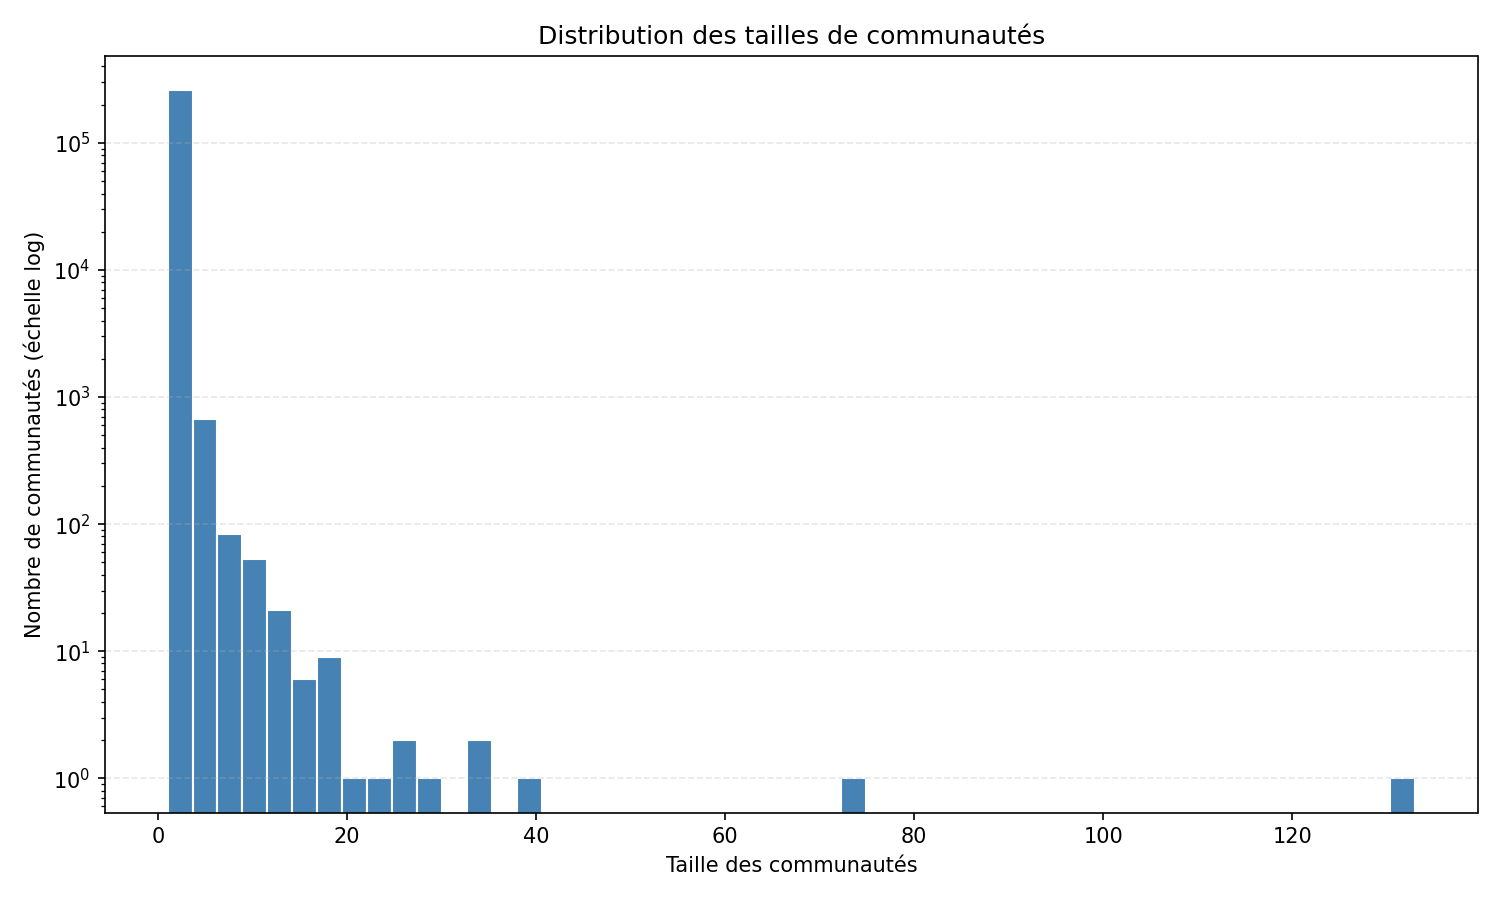
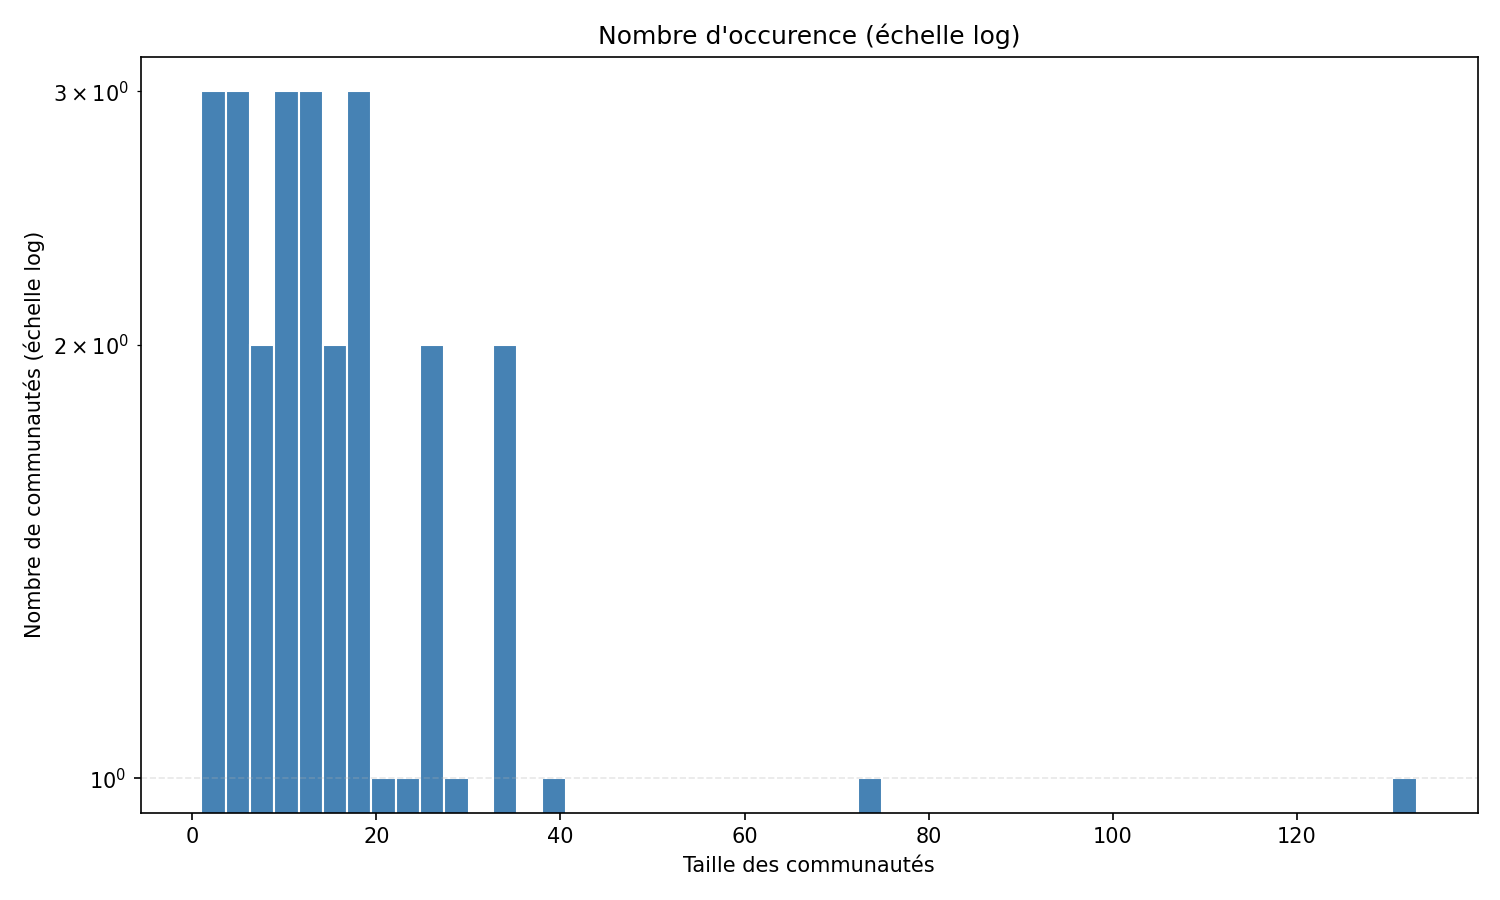
correction formatage csv

diff --git a/base/main.py b/base/main.py
@@ -9,12 +9,13 @@ def uf():
     with open(csv_path, "r") as f:
         reader = csv.DictReader(f)
         for row in reader:
-            data.append(int(row["size"]))
+            data.append(int(row["community_size"]))
 
+    data_array = np.array(data)
     os.makedirs("../results/plots", exist_ok=True)
     fig, ax = plt.subplots(figsize=(10, 6))
     
-    bins = np.logspace(np.log10(min(data)), np.log10(max(data)), 50)
+    bins = np.logspace(np.log10(data_array.min()), np.log10(data_array.max()), 50)
     
     ax.hist(data, bins=bins, log=True, color="steelblue", edgecolor="white")
     ax.set_xscale('log') 
@@ -34,12 +35,13 @@ def cfc():
     with open(csv_path, "r") as f:
         reader = csv.DictReader(f)
         for row in reader:
-            data.append(int(row["size"]))
+            data.append(int(row["community_size"]))
 
+    data_array = np.array(data)
     os.makedirs("../results/plots", exist_ok=True)
     fig, ax = plt.subplots(figsize=(10, 6))
 
-    bins = np.logspace(np.log10(data.min()), np.log10(data.max()), 50)
+    bins = np.logspace(np.log10(data_array.min()), np.log10(data_array.max()), 50)
 
     ax.hist(data, bins=50, log=True, color="steelblue", edgecolor="white")
     ax.set_xlabel("Taille des communautés")

diff --git a/base/DblpParsingDemo.java b/base/DblpParsingDemo.java
@@ -267,9 +267,16 @@ public class DblpParsingDemo {
      * Ecrit une collection de tailles dans un fichier CSV (une taille par ligne)
      */
     private static void writeSizesToCSV(String filename, Collection<Integer> sizes) throws FileNotFoundException{
+        Map<Integer, Integer> counts = new HashMap<>();
+        for (int s : sizes) {
+            counts.put(s, counts.getOrDefault(s, 0) + 1);
+        }
+
         try (PrintWriter pw = new PrintWriter(filename)) {
-            pw.println("size");
-            for (int size : sizes) pw.println(size);
+            pw.println("community_size,count");
+            for (Map.Entry<Integer, Integer> entry : counts.entrySet()) {
+                pw.println(entry.getKey()  + "," + entry.getValue());
+            }
         }
     }
 
